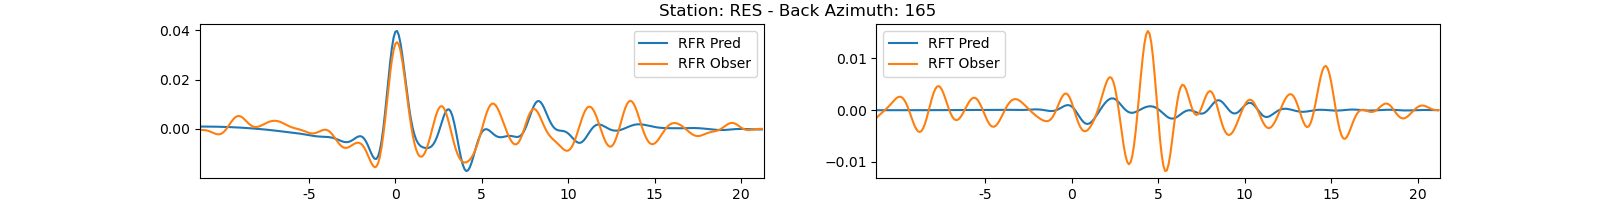
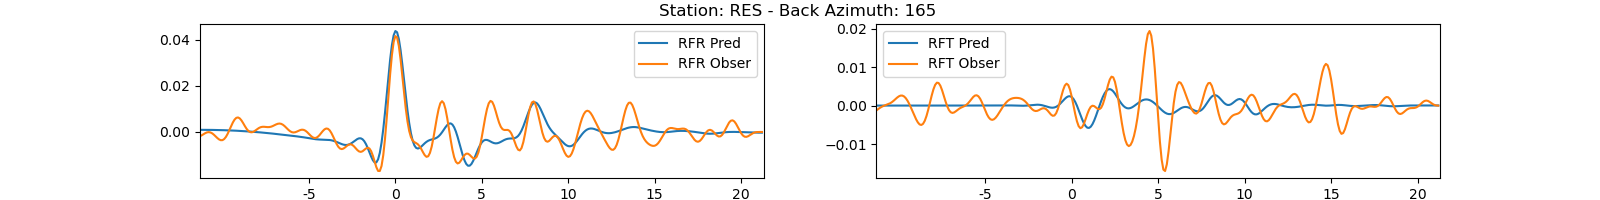
"after editing raysum_main.py"

diff --git a/codes_RF/inv_func.py b/codes_RF/inv_func.py
@@ -9,11 +9,10 @@ import matplotlib.pyplot as plt
 from scipy.optimize import LinearConstraint, Bounds
 import ast
 import time
-from scipy.stats import pearsonr
-
 
 # reading the data
-def reading_rfs(keyword: str, filters=(0.05, 0.3), corners = 4, sort=None, t_snr_treshold=-10, path_to_data="DATA/waveforms_list.csv") -> tuple:
+def reading_rfs(keyword: str, filters=(0.04, 0.4), corners = 4, sort=None, t_snr_treshold=-10,
+                path_to_data="DATA/waveforms_list.csv") -> tuple:
     """
     Reading RF data by the name of keyword as station code
     inputs:
@@ -42,22 +41,24 @@ def reading_rfs(keyword: str, filters=(0.05, 0.3), corners = 4, sort=None, t_snr
     
     # function to calculate signal to noise ratio for transverse component
     def cal_snr_for_transverse(rft: np.array) -> np.array:
-        noise = np.mean(rft[:200]**2)
-        signal = np.mean(rft[213:263]**2)
+        noise = np.mean(rft[60:210]**2)
+        signal = np.mean(rft[210:360]**2)
         return 10 * np.log10(signal/noise)
     
     idx = 0
     for _, row in filtered_files.iterrows():
         wave_path = os.path.join(path, row['file_name']+".pkl")
         st = op.read(wave_path)
-        RFR = st.select(channel="RFR")[0].filter('bandpass', freqmin=filters[0], freqmax=filters[1], corners=corners, zerophase=True).data
-        RFT = st.select(channel="RFT")[0].filter('bandpass', freqmin=filters[0], freqmax=filters[1], corners=corners, zerophase=True).data
+        RFR = st.select(channel="RFR")[0].filter('bandpass', freqmin=filters[0], freqmax=filters[1],
+                                                 corners=corners, zerophase=True).data
+        RFT = st.select(channel="RFT")[0].filter('bandpass', freqmin=filters[0], freqmax=filters[1],
+                                                 corners=corners, zerophase=True).data
         #check if the signal to noise ratio is above the treshold
         if cal_snr_for_transverse(RFT) > t_snr_treshold:
             baz.append(st[0].stats.baz)
             slow.append(st[0].stats.slow)
-            RFR = RFR / np.max(np.abs(RFR))
-            RFT = RFT / np.max(np.abs(RFT))
+            RFR = RFR #/ np.max(np.abs(RFR))
+            RFT = RFT #/ np.max(np.abs(RFT))
             obser[idx, :426] = RFR
             obser[idx, 426:] = RFT
             idx += 1
@@ -92,37 +93,42 @@ def read_model(path_to_models, layer):
     bounds = bounds[bounds["layer_code"] == layer].drop(columns=["layer_code"])
     fixed_vales = fixed_vales[fixed_vales["layer_code"] == layer].drop(columns=["layer_code"])
     
-    #fix a bug
-    # if fixed_vales.loc[len(fixed_vales.ani)-1, "ani"] == None:
-    #     fixed_vales.loc[len(fixed_vales.ani)-1, "ani"]=np.nan
-    
+   
     bounds = bounds.values.flatten()
     # create a mask for the non-fixed values
     mask = pd.notna(bounds)
     bounds = [ast.literal_eval(i) for i in bounds if str(i) != 'nan']
     return bounds, fixed_vales, mask
 
-def pyraysum_func(baz, slow, thickn, rho, vp, vs, dip, strike, plunge, trend, ani, npts, dt) -> tuple:
-    model = Model(thickn, rho, vp, vs=vs, strike=strike, dip=dip, plunge=plunge, trend=trend, ani=ani)
+def pyraysum_func(baz, slow, thickn, rho, vp, vs, dip, strike,
+                  plunge, trend, ani, npts, dt) -> tuple:
+    flag = [1 if ani[i]==0 else 0 for i in range(len(ani))]
+    model = Model(thickn, rho, vp, vs=vs, strike=strike,
+                  dip=dip, plunge=plunge, trend=trend, ani=ani, flag=flag)
     geom = Geometry(baz, slow)
-    rc = Control(wvtype="P", rot="RTZ", mults=2, verbose=False, npts=npts*1, dt=dt, align=1, shift=5)
+    rc = Control(wvtype="P", rot="RTZ", mults=2, verbose=False,
+                 npts=npts*1, dt=dt, align=1, shift=5)
     result = prs.run(model, geom, rc, rf=True)
     result.filter('rfs', 'lowpass', freq=1., zerophase=True, corners=2)
     return result
 
-def predict(model: pd.DataFrame, baz, slow, filters=(0.05, 0.3), corners=4):
-    result = pyraysum_func(baz, slow, model["thickn"], model["rho"], model["vp"], model["vs"], model["dip"],
-                                     model["strike"], model["plunge"], model["trend"], model["ani"], 3*426, 0.2)
-    #lower number of samples would be problematic and that is why we produce longer signal and then reduce it
+def predict(model: pd.DataFrame, baz, slow, filters=(0.03, 0.3), corners=4):
+    result = pyraysum_func(baz, slow, model["thickn"], model["rho"], model["vp"], model["vs"],
+                           model["dip"], model["strike"], model["plunge"], model["trend"],
+                           model["ani"], 3*426, 0.2)
+    #lower number of samples would be problematic and that is why we produce longer signal and
+    # then reduce it
     pred = np.zeros((len(result), 2*426)) 
     pred_r = np.zeros((len(result), 3*426))
     pred_t = np.zeros((len(result), 3*426))
 
     for idx, i in enumerate(result):
-        RFR = i[1][0].filter('bandpass', freqmin=filters[0], freqmax=filters[1], corners=corners, zerophase=True).data
-        RFT = i[1][1].filter('bandpass', freqmin=filters[0], freqmax=filters[1], corners=corners, zerophase=True).data
-        pred_r[idx, :] = RFR / np.max(np.abs(RFR))
-        pred_t[idx, :] = RFT / np.max(np.abs(RFT))
+        RFR = i[1][0].filter('bandpass', freqmin=filters[0], freqmax=filters[1], corners=corners,
+                             zerophase=True).data
+        RFT = i[1][1].filter('bandpass', freqmin=filters[0], freqmax=filters[1], corners=corners,
+                             zerophase=True).data
+        pred_r[idx, :] = RFR #/ np.max(np.abs(RFR))
+        pred_t[idx, :] = RFT #/ np.max(np.abs(RFT))
     #making more samples to reduce the effect of the edges
     pred_r = pred_r[:, 426:2*426]
     pred_t = pred_t[:, 426:2*426]
@@ -139,7 +145,7 @@ def cost_func(variables, fixed_values, mask, obser, baz, slow, layer):
     model = fixed_values.reshape(layer, 9)
     model = pd.DataFrame(model, columns=keys)
     pred = predict(model, baz, slow)
-
+    
     # # Mean Squared Error (MSE) --> eval = 4/5
     # loss = np.mean((obser - pred) ** 2)
     
@@ -169,33 +175,57 @@ def cost_func(variables, fixed_values, mask, obser, baz, slow, layer):
     # loss = 1 - np.corrcoef(obser.flatten(), pred.flatten())[0, 1]
 
 
-    # Correlation Coefficient --> eval = 5/5
-    corr_coef_obs_and_pred = np.corrcoef(obser.flatten(), pred.flatten())[0, 1]
-    corr_coef_obs = np.corrcoef(obser.flatten(), obser.flatten())[0, 1]
-    corr_coef_pred = np.corrcoef(pred.flatten(), pred.flatten())[0, 1]
-    loss_all = 1 - corr_coef_obs_and_pred/(corr_coef_obs*corr_coef_pred)**0.5
+    # # Correlation Coefficient --> eval = 5/5
+    # corr_coef_obs_and_pred = np.corrcoef(obser.flatten(), pred.flatten())[0, 1]
+    # corr_coef_obs = np.corrcoef(obser.flatten(), obser.flatten())[0, 1]
+    # corr_coef_pred = np.corrcoef(pred.flatten(), pred.flatten())[0, 1]
+    # loss_all = 1 - corr_coef_obs_and_pred/(corr_coef_obs*corr_coef_pred)**0.5
 
-    # correlation coefficient for Radial
-    corr_coef_obs_and_pred_r = np.corrcoef(obser[:, :426].flatten(), pred[:, :426].flatten())[0, 1]
-    corr_coef_obs_r = np.corrcoef(obser[:, :426].flatten(), obser[:, :426].flatten())[0, 1]
-    corr_coef_pred_r = np.corrcoef(pred[:, :426].flatten(), pred[:, :426].flatten())[0, 1]
-    loss_r = 1 - corr_coef_obs_and_pred_r/(corr_coef_obs_r*corr_coef_pred_r)**0.5
+    if model["thickn"].sum() < 51_000 and model["thickn"].sum() > 30_000: #km
+        ss = 125 #starting sample
+        obser_r = obser[:, ss:426].flatten()/np.max(np.abs(obser[:, 213:213+ss].flatten()))
+        pred_r = pred[:, ss:426].flatten()/np.max(np.abs(pred[:, 213:213+ss].flatten()))
+        obser_t = obser[:, 426+ss:].flatten()/np.max(np.abs(obser[:, 426+213:426+213+ss].flatten()))
+        pred_t = pred[:, 426+ss:].flatten()/np.max(np.abs(pred[:, 426+213:426+213+ss].flatten()))
+        
+        # correlation coefficient for Radial
+        corr_coef_obs_and_pred_r = np.corrcoef(obser_r, pred_r)[0, 1]
+        corr_coef_obs_r = np.corrcoef(obser_r, obser_r)[0, 1]
+        corr_coef_pred_r = np.corrcoef(pred_r, pred_r)[0, 1]
+        loss_r = 1 - corr_coef_obs_and_pred_r/(corr_coef_obs_r*corr_coef_pred_r)**0.5
 
-    return np.mean([loss_all, loss_r])
+        # correlation coefficient for Transverse
+        corr_coef_obs_and_pred_t = np.corrcoef(obser_t, pred_t)[0, 1]
+        corr_coef_obs_t = np.corrcoef(obser_t, obser_t)[0, 1]
+        corr_coef_pred_t = np.corrcoef(pred_t, pred_t)[0, 1]
+        loss_t = 1 - corr_coef_obs_and_pred_t/(corr_coef_obs_t*corr_coef_pred_t)**0.5
+        
+        return np.mean([loss_t, 3*loss_r])/4
+    else:
+        return 999
 
 def optimize_model(bounds, fixed_values, mask, obser, baz, slow, layer, maxiter=1000):
+    """To improve your chances of finding a global minimum use higher popsize values,
+      with higher mutation and (dithering), but lower recombination values. This has
+      the effect of widening the search radius, but slowing convergence."""
     result = differential_evolution(cost_func,
                                     bounds,
                                     args=(fixed_values, mask, obser,
                                           baz, slow, layer),
                                     maxiter=maxiter,
                                     disp=True,
-                                    updating="deferred")
+                                    updating="immediate",
+                                    strategy="best1bin",
+                                    popsize=30,
+                                    mutation=0.5,
+                                    recombination=0.7
+                                    )
     return result
     
 
 def save_inv_summary(results, station, layer, data_size, delta_time):
-    summary = {"data size": data_size, "error": results.fun, "number of iterations": results.nit, "number of function evaluation": results.nfev, "processing time": delta_time}
+    summary = {"data size": data_size, "error": results.fun, "number of iterations": results.nit,
+               "number of function evaluation": results.nfev, "processing time": delta_time}
     summary_list = [list(summary.keys()), list(summary.values())]
     with open(f"inv/results/{station}/summary_{layer}.txt", "w") as f:
         for i in range(len(summary_list[0])):

diff --git a/raysum_main.py b/raysum_main.py
@@ -14,34 +14,33 @@ if __name__ == "__main__":
         sys.exit(1)
     else:
         # CONTROL PARAMETERS
-        layer, station = int(sys.argv[2]), sys.argv[1]
-        t_snr_treshold = 6.0 #signal to noise ratio treshold for transverse component
-        filters = (0.05, 0.30)
-        corners = 4
+        layer, station = int(sys.argv[2]), sys.argv[1].upper()
+        t_snr_treshold = 4.0 #signal to noise ratio treshold for transverse component
         path_to_data = "DATA/RF"
         path_to_models = "inv/initial"
         os.makedirs(f"inv/results/{station}", exist_ok=True)
         #reading RFs
-        obser, baz, slow = reading_rfs(station, t_snr_treshold=t_snr_treshold, sort="baz", filters=filters, corners=corners)
-        # print("Station:", station,"- Observation Data Size:", obser.shape, "- Number of Layers:", layer )
+        obser, baz, slow = reading_rfs(station, t_snr_treshold=t_snr_treshold, sort="baz")
+        print("Station:", station,"- Observation Data Size:", obser.shape, "- Number of Layers:", layer )
         # reading the model bounds and fixed values
         bounds, fixed_values, mask = read_model(path_to_models, layer)
 
         # Geometry plot
-        fig, ax = plt.subplots(subplot_kw={'projection': 'polar'}, figsize=(5, 5))
-        ax.plot(np.array(baz)*np.pi/180, slow, marker='o', linestyle='', color='grey', markersize=15, alpha=0.6, linewidth=1)
+        import matplotlib.pyplot as plt
+        import numpy as np
+
+        fig, ax = plt.subplots(subplot_kw={'projection': 'polar'}, figsize=(4, 4))
+        ax.plot(np.array(baz)*np.pi/180, slow, marker='D', linestyle='', color='black', markersize=5, alpha=0.4, linewidth=0.001)
         ax.set_theta_direction(-1)
         ax.set_theta_zero_location('N')
         ax.grid(True)
         ax.set_title(f"Distibution of events around {station} station", va='top')
         # plt.show()
         fig.savefig(f"inv/results/{station}/geometry.png")
-        plt.close("all")
 
         # Inversion
         start_time = time.time()
-        results = optimize_model(bounds, fixed_values, mask, obser, baz, slow, 
-                                 layer, maxiter=10)
+        results = optimize_model(bounds, fixed_values, mask, obser, baz, slow, layer, maxiter=5)
         end_time = time.time()
         save_inv_summary(results, station, layer, obser.shape[0], end_time-start_time)
 
@@ -56,8 +55,8 @@ if __name__ == "__main__":
         import matplotlib.pyplot as plt
         time = np.arange(-213/5, 213/5, 5)
         pred_data = predict(flatten_x, baz, slow)
-        fig_main = plt.figure(figsize=(25, 12), dpi=300)
-        row, col = 4, 2
+        fig_main = plt.figure(figsize=(20, 7), dpi=300)
+        row, col = 2, 2
         y_val = np.int_(np.linspace(0, pred_data.shape[0]-1, 4))
 
         ###################
@@ -90,37 +89,10 @@ if __name__ == "__main__":
         plt.yticks(y_val, [int(baz[y_val[0]]), int(baz[y_val[1]]), 
                         int(baz[y_val[2]]), int(baz[y_val[3]])])
         plt.xlabel("Time (s)")
-        ###################
-        plt.subplot(row, col, 5)
-        plt.arrow(0, 0, 0, -1, head_width=0.02, head_length=0.3, fc='k', ec='k')
-        plt.xlim(-0.2, 0.2)
-        plt.ylim(-2, 1)
-        plt.axis('off')
-        plt.subplot(row, col, 6)
-        plt.arrow(0, 0, 0, -1, head_width=0.02, head_length=0.3, fc='k', ec='k')
-        plt.xlim(-0.2, 0.2)
-        plt.ylim(-2, 1)
-        plt.axis('off')
-        ###################
-        plt.subplot(row, col, 7)
-        plt.imshow(pred_data[:,0:426]-obser[:,0:426], aspect="auto")
-        plt.ylabel("RFR - Residual")
-        plt.xticks(np.array([113, 163, 213, 263, 313]), [-10, -5, 0, 5, 10])
-        plt.yticks(y_val, [int(baz[y_val[0]]), int(baz[y_val[1]]), 
-                        int(baz[y_val[2]]), int(baz[y_val[3]])])
-        plt.xlabel("Time (s)")
-        ###################
-        plt.subplot(row, col, 8)
-        plt.imshow(pred_data[:,426:]-obser[:,426:], aspect="auto")
-        plt.ylabel("RFT - Residual")
-        plt.xticks(np.array([113, 163, 213, 263, 313]), [-10, -5, 0, 5, 10])
-        plt.yticks(y_val, [int(baz[y_val[0]]), int(baz[y_val[1]]), 
-                        int(baz[y_val[2]]), int(baz[y_val[3]])])
-        plt.xlabel("Time (s)")
-        ###################
+
         plt.tight_layout()
         fig_main.savefig(f"inv/results/{station}/imageofwaves_{station}_{layer}_layer.png")
-        plt.close("all")
+        # plt.show()
 
         # Plotting the model 
         model = Model(flatten_x["thickn"], flatten_x["rho"], flatten_x["vp"], vs=flatten_x["vs"], strike=flatten_x["strike"], dip=flatten_x["dip"], plunge=flatten_x["plunge"], trend=flatten_x["trend"], ani=flatten_x["ani"])
@@ -129,23 +101,32 @@ if __name__ == "__main__":
         plt.close("all")
         fig_model.clf()
 
-        # Plotting the RFs
+        # Plotting the model
+        data_length = pred_data.shape[0]
+        model = Model(flatten_x["thickn"], flatten_x["rho"], flatten_x["vp"], vs=flatten_x["vs"],
+                        strike=flatten_x["strike"], dip=flatten_x["dip"], plunge=flatten_x["plunge"],
+                        trend=flatten_x["trend"], ani=flatten_x["ani"],
+                        flag=[1 if flatten_x["ani"][i]==0 else 0 for i in range(len(flatten_x["ani"]))])
+        fig_model = model.plot()
+        # plt.show()
+        fig_model.savefig(f"inv/results/{station}/model_{station}_{layer}_layer.png")
+
+        # Plotting the waveforms
         data_length = pred_data.shape[0]
         os.makedirs(f"inv/results/{station}/waveforms", exist_ok=True)
 
         for i, j, z in zip(pred_data, obser, baz):
-                fig, ax = plt.subplots(1, 2, figsize=(16, 2))
-                ax[0].plot(i[0:426], label="RFR Pred")
-                ax[0].plot(j[0:426], label="RFR Obser")
-                ax[0].set_xticks([163, 213, 263, 313, 363, 413], [-5, 0, 5, 10, 15, 20])
-                ax[0].legend()
-                ax[0].set_xlim(100, 426)
+            fig, ax = plt.subplots(1, 2, figsize=(16, 2))
+            ax[0].plot(i[0:426], label="RFR Pred")
+            ax[0].plot(j[0:426], label="RFR Obser")
+            ax[0].set_xticks([163, 213, 263, 313, 363, 413], [-5, 0, 5, 10, 15, 20])
+            ax[0].legend()
+            ax[0].set_xlim(100, 426)
 
-                ax[1].plot(i[426:], label="RFT Pred")
-                ax[1].plot(j[426:], label="RFT Obser")
-                ax[1].set_xticks([163, 213, 263, 313, 363, 413], [-5, 0, 5, 10, 15, 20])
-                ax[1].legend()
-                ax[1].set_xlim(100, 426)
-                fig.suptitle(f"Station: {station} - Back Azimuth: {z:.0f} ")
-                fig.savefig(f"inv/results/{station}/waveforms/layer_{layer}_baz{z:.0f}.png")
-        plt.close("all")
+            ax[1].plot(i[426:], label="RFT Pred")
+            ax[1].plot(j[426:], label="RFT Obser")
+            ax[1].set_xticks([163, 213, 263, 313, 363, 413], [-5, 0, 5, 10, 15, 20])
+            ax[1].legend()
+            ax[1].set_xlim(100, 426)
+            fig.suptitle(f"Station: {station} - Back Azimuth: {z:.0f} ")
+            fig.savefig(f"inv/results/{station}/waveforms/layer_{layer}_baz{z:.0f}.png")
